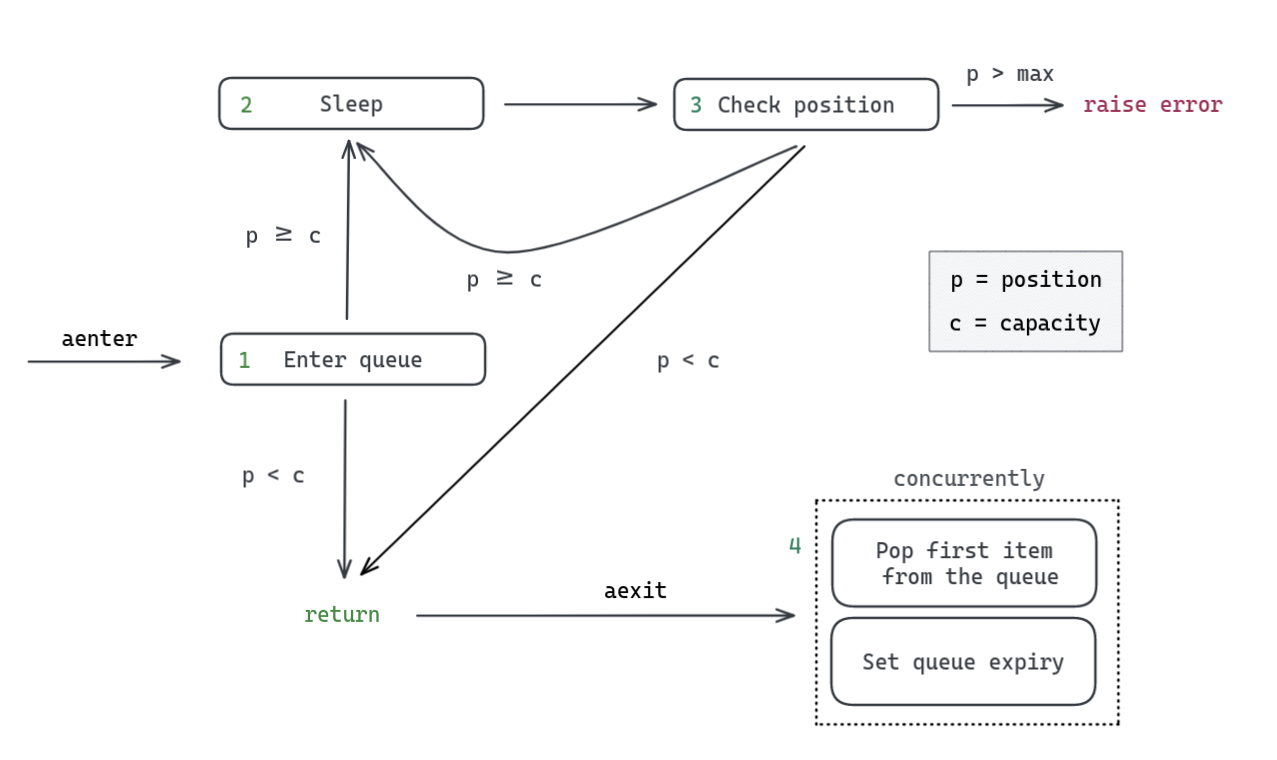
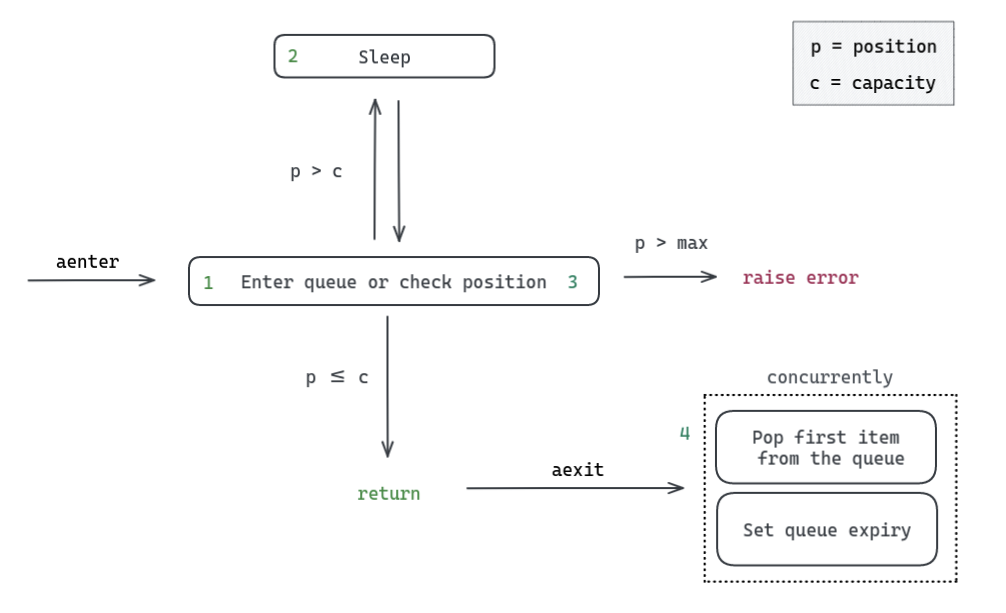
refactor: Make aexit concurrent

diff --git a/src/semaphore/mod.rs b/src/semaphore/mod.rs
@@ -1,5 +1,6 @@
 extern crate redis;
 
+use crossbeam_channel::bounded;
 use std::num::NonZeroUsize;
 
 use crate::semaphore::errors::SemaphoreError;
@@ -8,8 +9,8 @@ use nanoid::nanoid;
 use pyo3::prelude::*;
 use pyo3::types::PyTuple;
 use pyo3_asyncio::tokio::future_into_py;
-use redis::aio::Connection;
 use redis::{parse_redis_url, AsyncCommands, Client, LposOptions};
+use tokio::task::JoinHandle;
 
 pub(crate) mod errors;
 pub(crate) mod utils;
@@ -19,19 +20,20 @@ use crate::semaphore::utils::{
     send_shared_state,
 };
 
-// Struct for the data we need to pass to our async thread
-pub struct SharedState {
+// Pure rust DTO for the data we need to pass to our thread
+// We could pass the Semaphore itself, but this seemed simpler
+pub(crate) struct ThreadState {
     queue_key: Vec<u8>,
     capacity: u32,
-    client: Client,
-    sleep_duration: f32,
     max_position: u32,
+    sleep_duration: f32,
     identifier: Vec<u8>,
+    client: Client,
 }
 
-impl SharedState {
-    fn from(slf: &PyRef<Semaphore>) -> SharedState {
-        SharedState {
+impl ThreadState {
+    fn from(slf: &PyRef<Semaphore>) -> ThreadState {
+        ThreadState {
             queue_key: slf.queue_key.clone(),
             capacity: slf.capacity,
             max_position: slf.max_position,
@@ -41,8 +43,11 @@ impl SharedState {
         }
     }
 
-    async fn wait_for_slot(self, connection: &mut Connection) -> Result<(), SemaphoreError> {
-        // Enter a queue and get the current position
+    async fn wait_for_slot(self) -> Result<(), SemaphoreError> {
+        // Open redis connection
+        let mut connection = open_client_connection(&self.client).await?;
+
+        // Enter queue and get the current position
         let mut position = connection.rpush(&self.queue_key, &self.identifier).await?;
         debug!("Entered queue in position {}", position);
 
@@ -53,7 +58,7 @@ impl SharedState {
                 break;
             }
 
-            // If the position is beyond the maximum tolerated position, throw an error
+            // If the position exceeds the maximum tolerated position, throw an error
             if self.max_position > 0 && position > self.max_position {
                 debug!("Position is greater than max position. Returning.");
                 return Err(SemaphoreError::MaxPositionExceeded(format!(
@@ -62,51 +67,75 @@ impl SharedState {
                 )));
             }
 
-            // Sleep for a bit
+            // Otherwise, sleep for a bit and check again
             let sleep_duration = estimate_appropriate_sleep_duration(
                 &position,
                 &self.capacity,
                 &self.sleep_duration,
-            )
-            .await;
+            );
             debug!(
                 "Position {} is greater than capacity ({}). Sleeping",
                 position, self.capacity
             );
             tokio::time::sleep(sleep_duration).await;
 
-            // Then retrieve the position again
-            position = match connection
+            // Retrieve position again
+            position = connection
                 .lpos::<&Vec<u8>, &Vec<u8>, Option<u32>>(
                     &self.queue_key,
                     &self.identifier,
                     LposOptions::default(),
                 )
                 .await?
-            {
-                Some(position) => position + 1,
-                // There's a chance our ID was popped from the queue.
-                // This can only happen if we're within the capacity,
-                // so setting position to 1 here is the way to handle thiself.
-                None => 1,
-            };
+                .unwrap_or(1);
             debug!("Position is now {}", position);
         }
         Ok(())
     }
 
-    async fn clean_up(self, connection: &mut Connection) -> Result<(), SemaphoreError> {
+    async fn clean_up(self) -> Result<(), SemaphoreError> {
         info!("Leaving queue");
-        connection
-            .lpop(&self.queue_key, NonZeroUsize::new(1_usize))
-            .await?;
-        connection.expire(&self.queue_key, 30_usize).await?;
+        struct S {
+            client: Client,
+            queue_key: Vec<u8>,
+        }
+
+        let (s1, r1) = bounded(1);
+        s1.send(S {
+            client: self.client.to_owned(),
+            queue_key: self.queue_key.to_owned(),
+        })
+        .unwrap();
+
+        let (s2, r2) = bounded(1);
+        s2.send(S {
+            client: self.client.to_owned(),
+            queue_key: self.queue_key.to_owned(),
+        })
+        .unwrap();
+
+        let task1: JoinHandle<Result<(), SemaphoreError>> = tokio::task::spawn(async move {
+            let slf = r1.recv()?;
+            let mut con = open_client_connection(&slf.client).await?;
+            con.expire(&slf.queue_key, 30_usize).await?;
+            Ok(())
+        });
+
+        let task2: JoinHandle<Result<(), SemaphoreError>> = tokio::task::spawn(async move {
+            let slf = r2.recv()?;
+            let mut con = open_client_connection(&slf.client).await?;
+            con.lpop(&slf.queue_key, NonZeroUsize::new(1_usize)).await?;
+            Ok(())
+        });
+
+        task1.await??;
+        task2.await??;
         Ok(())
     }
 }
 
 #[pyclass()]
-pub struct Semaphore {
+pub(crate) struct Semaphore {
     capacity: u32,
     max_position: u32,
     sleep_duration: f32,
@@ -149,21 +178,20 @@ impl Semaphore {
     }
 
     fn __aenter__<'a>(slf: PyRef<'_, Self>, py: Python<'a>) -> PyResult<&'a PyAny> {
-        let receiver = send_shared_state(&slf)?;
+        let receiver = send_shared_state(ThreadState::from(&slf))?;
         future_into_py(py, async move {
             let shared_state = receive_shared_state(receiver)?;
-            let mut connection = open_client_connection(&shared_state.client).await?;
-            Ok(shared_state.wait_for_slot(&mut connection).await?)
+            Ok(shared_state.wait_for_slot().await?)
         })
     }
 
     #[args(_a = "*")]
     fn __aexit__<'a>(slf: PyRef<'_, Self>, py: Python<'a>, _a: &'a PyTuple) -> PyResult<&'a PyAny> {
-        let receiver = send_shared_state(&slf)?;
+        let receiver = send_shared_state(ThreadState::from(&slf))?;
         future_into_py(py, async move {
             let shared_state = receive_shared_state(receiver)?;
-            let mut connection = open_client_connection(&shared_state.client).await?;
-            Ok(shared_state.clean_up(&mut connection).await?)
+            shared_state.clean_up().await?;
+            Ok(())
         })
     }
 }

diff --git a/src/semaphore/errors.rs b/src/semaphore/errors.rs
@@ -1,22 +1,26 @@
+use crate::semaphore::ThreadState;
+use crossbeam_channel::{RecvError, SendError};
 use pyo3::create_exception;
 use pyo3::exceptions::PyException;
 use pyo3::exceptions::PyRuntimeError;
 use pyo3::prelude::*;
 use redis::RedisError as RedisLibError;
+use tokio::task::JoinError;
 
 // Exception to raise when max position is exceeded
 create_exception!(timely, MaxPositionExceededError, PyException);
 
 // Exception to return in place of redis::RedisError
 // PyErr instances are raised as Python exceptions by pyo3, while
-// native rust errors result in panicself.
+// native rust errors result in panics.
 create_exception!(timely, RedisError, PyException);
 
 #[derive(Debug)]
-pub enum SemaphoreError {
+pub(crate) enum SemaphoreError {
     MaxPositionExceeded(String),
     Redis(String),
     ChannelError(String),
+    JoinError(String),
 }
 
 // Map relevant error types to appropriate Python exceptions
@@ -26,6 +30,7 @@ impl From<SemaphoreError> for PyErr {
             SemaphoreError::MaxPositionExceeded(e) => MaxPositionExceededError::new_err(e),
             SemaphoreError::Redis(e) => RedisError::new_err(e),
             SemaphoreError::ChannelError(e) => PyRuntimeError::new_err(e),
+            SemaphoreError::JoinError(e) => PyRuntimeError::new_err(e),
         }
     }
 }
@@ -33,5 +38,29 @@ impl From<SemaphoreError> for PyErr {
 impl From<RedisLibError> for SemaphoreError {
     fn from(e: RedisLibError) -> Self {
         SemaphoreError::Redis(e.to_string())
+    }
+}
+
+impl From<JoinError> for SemaphoreError {
+    fn from(e: JoinError) -> Self {
+        SemaphoreError::JoinError(e.to_string())
+    }
+}
+
+impl From<SendError<&ThreadState>> for SemaphoreError {
+    fn from(e: SendError<&ThreadState>) -> Self {
+        SemaphoreError::ChannelError(e.to_string())
+    }
+}
+
+impl From<SendError<ThreadState>> for SemaphoreError {
+    fn from(e: SendError<ThreadState>) -> Self {
+        SemaphoreError::ChannelError(e.to_string())
+    }
+}
+
+impl From<RecvError> for SemaphoreError {
+    fn from(e: RecvError) -> Self {
+        SemaphoreError::ChannelError(e.to_string())
     }
 }

diff --git a/src/semaphore/utils.rs b/src/semaphore/utils.rs
@@ -1,15 +1,13 @@
 use crate::semaphore::errors::SemaphoreError;
-use crate::semaphore::SharedState;
-use crate::Semaphore;
+use crate::semaphore::ThreadState;
 use crossbeam_channel::{bounded, Receiver};
-use pyo3::PyRef;
 use redis::aio::Connection;
 use redis::Client;
 use std::time::Duration;
 
 // Calculate appropriate sleep duration for a given node. Sleep longer when nodes are
 // further back in the queue. Sleeps as long as possible, to minimise i/o.
-pub async fn estimate_appropriate_sleep_duration(
+pub(crate) fn estimate_appropriate_sleep_duration(
     position: &u32,
     capacity: &u32,
     duration: &f32,
@@ -18,31 +16,20 @@ pub async fn estimate_appropriate_sleep_duration(
 }
 
 // Open a channel and send some data
-pub fn send_shared_state(slf: &PyRef<Semaphore>) -> Result<Receiver<SharedState>, SemaphoreError> {
+pub(crate) fn send_shared_state(ts: ThreadState) -> Result<Receiver<ThreadState>, SemaphoreError> {
     let (sender, receiver) = bounded(1);
-    match sender.send(SharedState::from(slf)) {
-        Ok(_) => Ok(receiver),
-        Err(e) => Err(SemaphoreError::ChannelError(format!(
-            "Error sending shared state: {}",
-            e
-        ))),
-    }
+    sender.send(ts)?;
+    Ok(receiver)
 }
 
 // Read data from channel
-pub fn receive_shared_state(
-    receiver: Receiver<SharedState>,
-) -> Result<SharedState, SemaphoreError> {
-    match receiver.recv() {
-        Ok(s) => Ok(s),
-        Err(e) => Err(SemaphoreError::ChannelError(format!(
-            "Error receiving shared state: {}",
-            e
-        ))),
-    }
+pub(crate) fn receive_shared_state(
+    receiver: Receiver<ThreadState>,
+) -> Result<ThreadState, SemaphoreError> {
+    Ok(receiver.recv()?)
 }
 
-pub async fn open_client_connection(client: &Client) -> Result<Connection, SemaphoreError> {
+pub(crate) async fn open_client_connection(client: &Client) -> Result<Connection, SemaphoreError> {
     match client.get_async_connection().await {
         Ok(connection) => Ok(connection),
         Err(e) => Err(SemaphoreError::Redis(format!(

diff --git a/test.py b/test.py
@@ -23,7 +23,7 @@ async def _consume(name):
         redis_url='redis://127.0.0.1:6389',
         sleep_duration=0.1,
     ):
-        await asyncio.sleep(0.1)
+        await asyncio.sleep(0.01)
 
 
 async def main():
